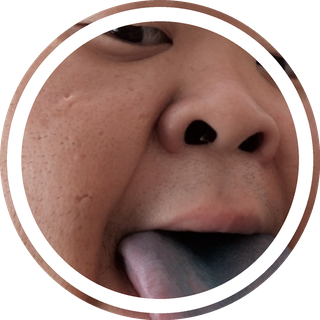
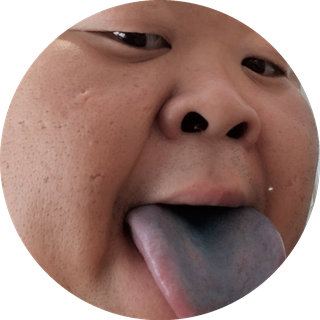
Add files via upload

diff --git a/sw.js b/sw.js
@@ -1,9 +1,9 @@
 // バージョンを上げるとキャッシュが更新されます（更新時は必ず数字を変える）
-const CACHE = "kiss-otoshi-v1";
+const CACHE = "kiss-otoshi-v6";
 const ASSETS = [
   "./","./index.html","./manifest.json",
   "./kiss1.png","./kiss2.png","./kiss3.png","./kiss4.png","./kiss5.png",
-  "./kiss6.png","./kiss7.png","./kiss8.png","./kiss9.png",
+  "./kiss6.png","./kiss7.png","./kiss8.png","./kiss9.png","./kiss10.png",
   "./icon-192.png","./icon-512.png","./apple-touch-icon.png"
 ];
 
